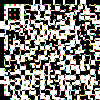
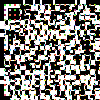
Updated canada.pymy1.png .

diff --git a/canada.py b/canada.py
@@ -28,10 +28,10 @@ outp=np.asarray(outp)
 img = Image.fromarray(outp, 'RGB')
 img.save('my.png')
 moverPieza(outp,18,1,0,0)
-moverPieza(outp,0,16,0,5)
+moverPieza(outp,0,16,0,4)
 moverPieza(outp,1,4,0,3)
 moverPieza(outp,1,9,0,11)
-moverPieza(outp,2,8,0,4)
+moverPieza(outp,2,8,0,5)
 moverPieza(outp,3,0,0,14)
 moverPieza(outp,4,7,0,9)
 moverPieza(outp,5,3,0,17)
